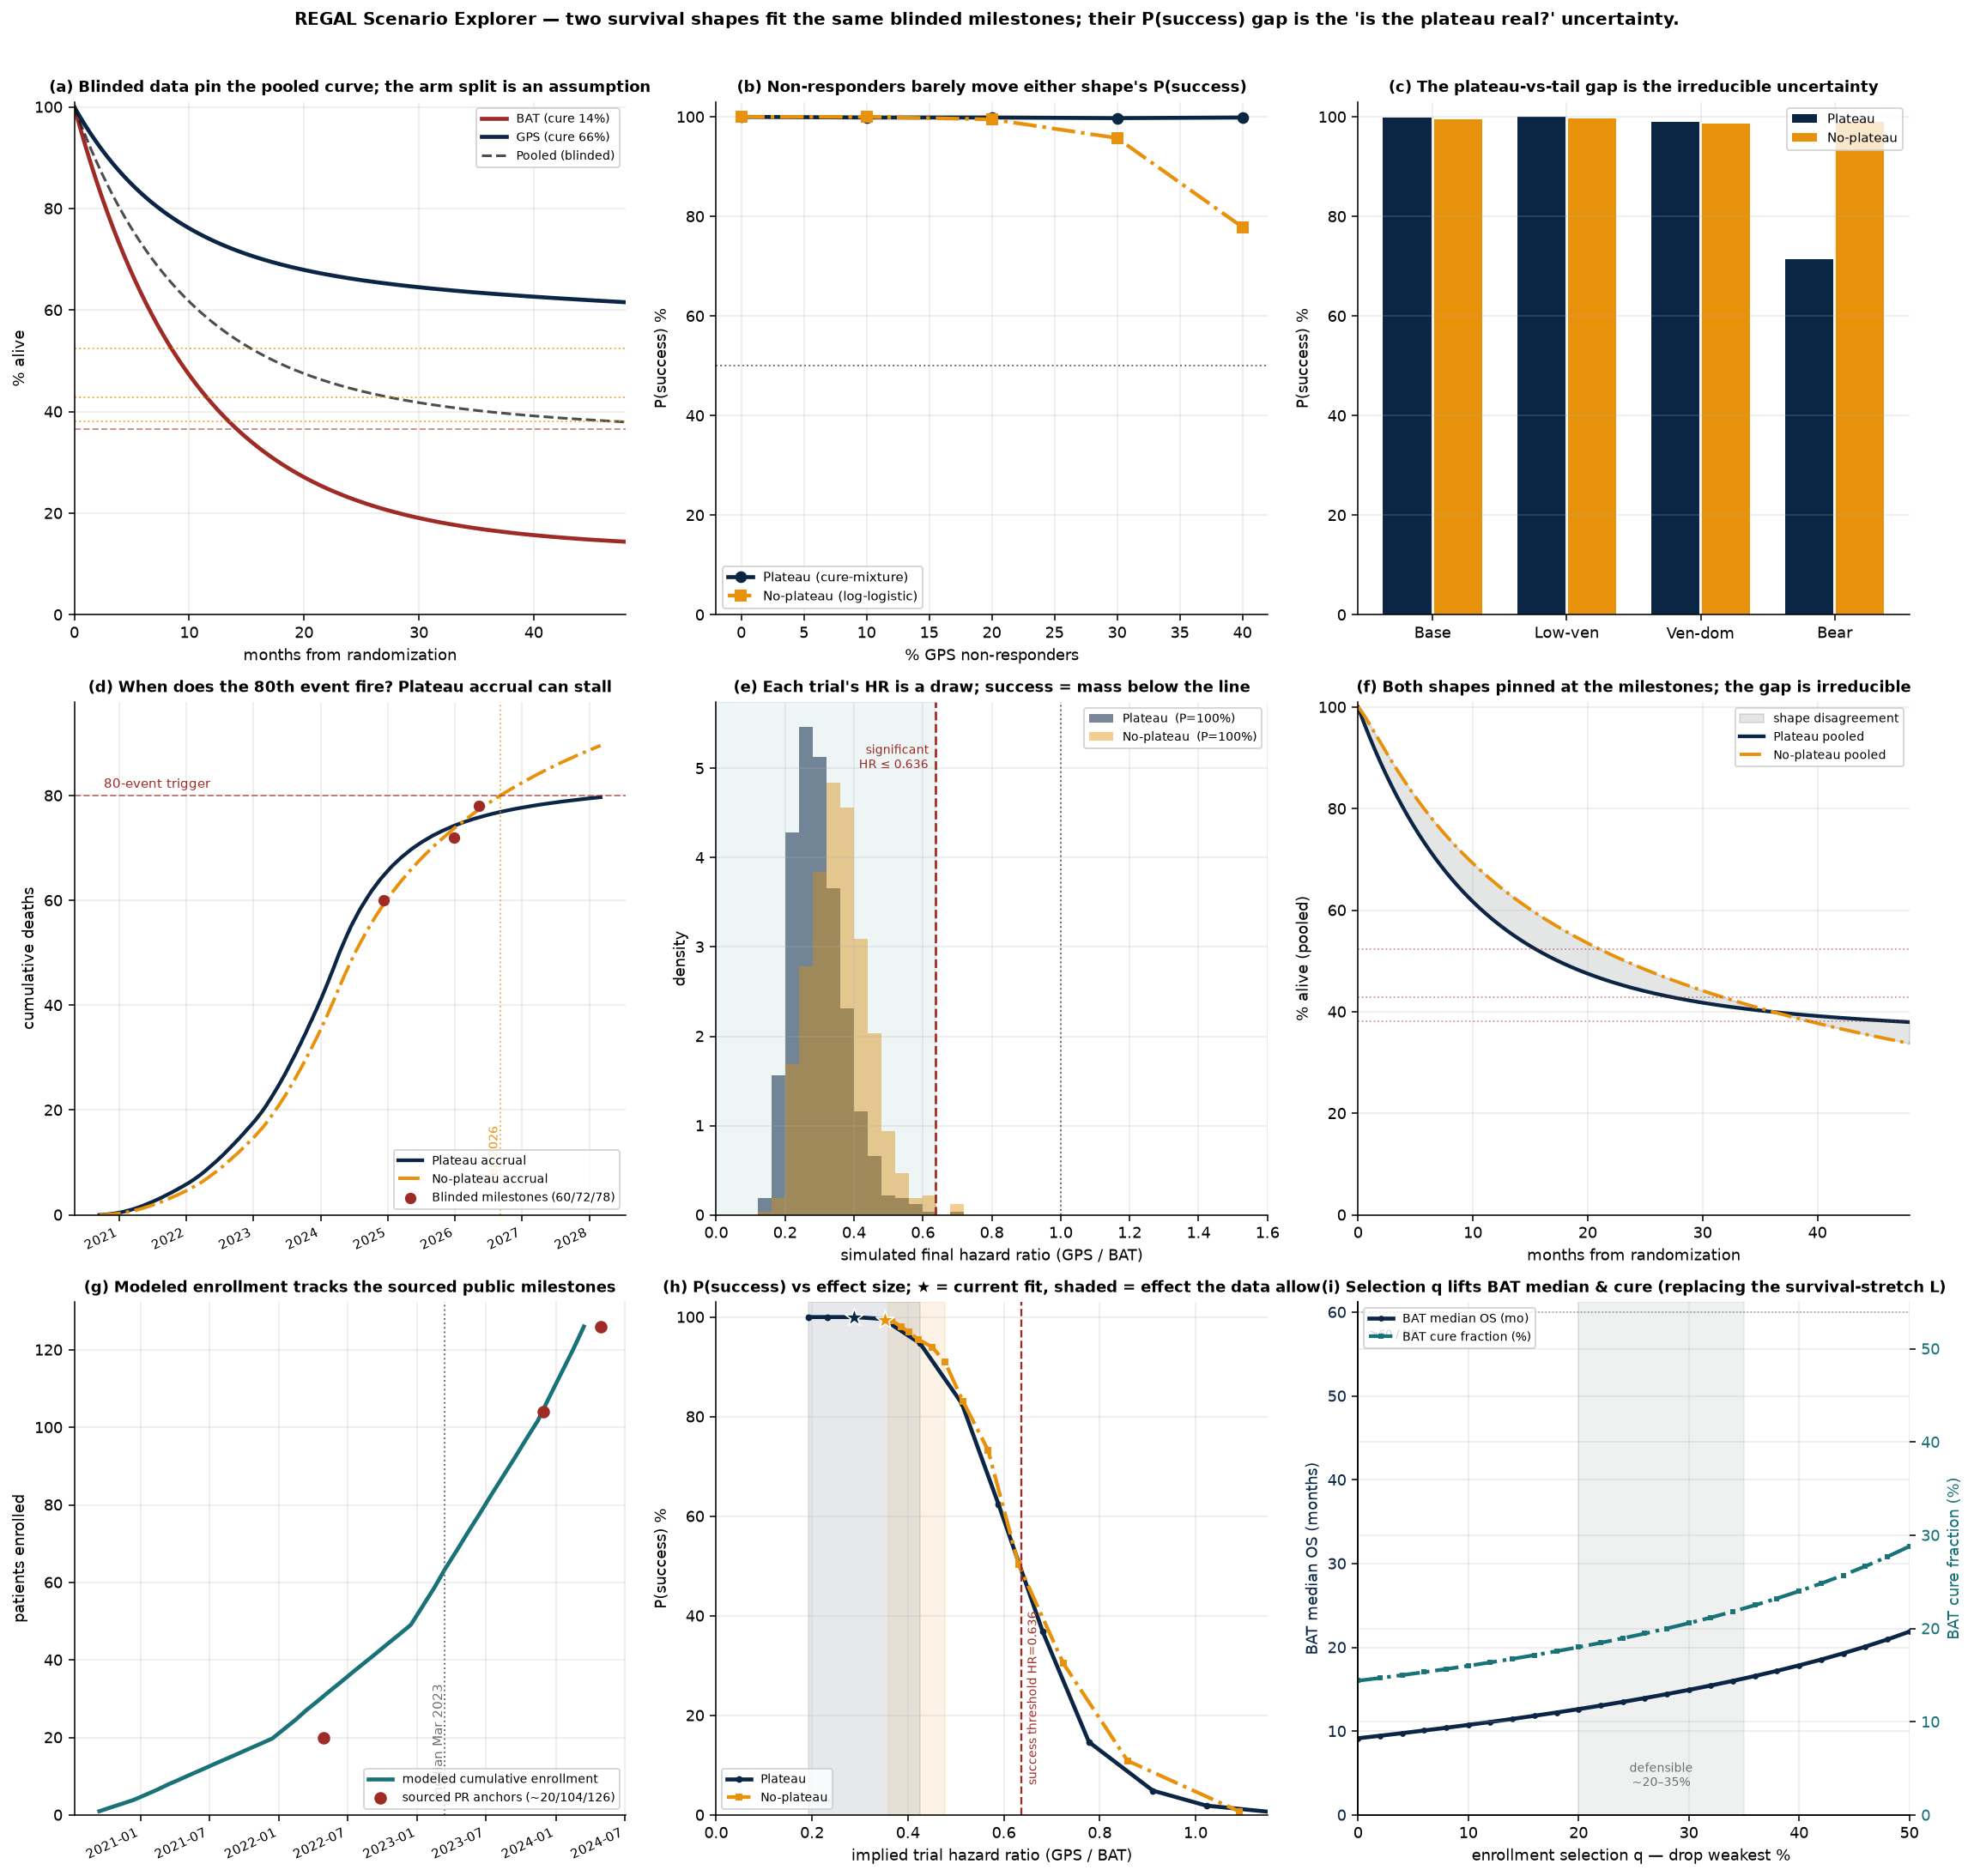
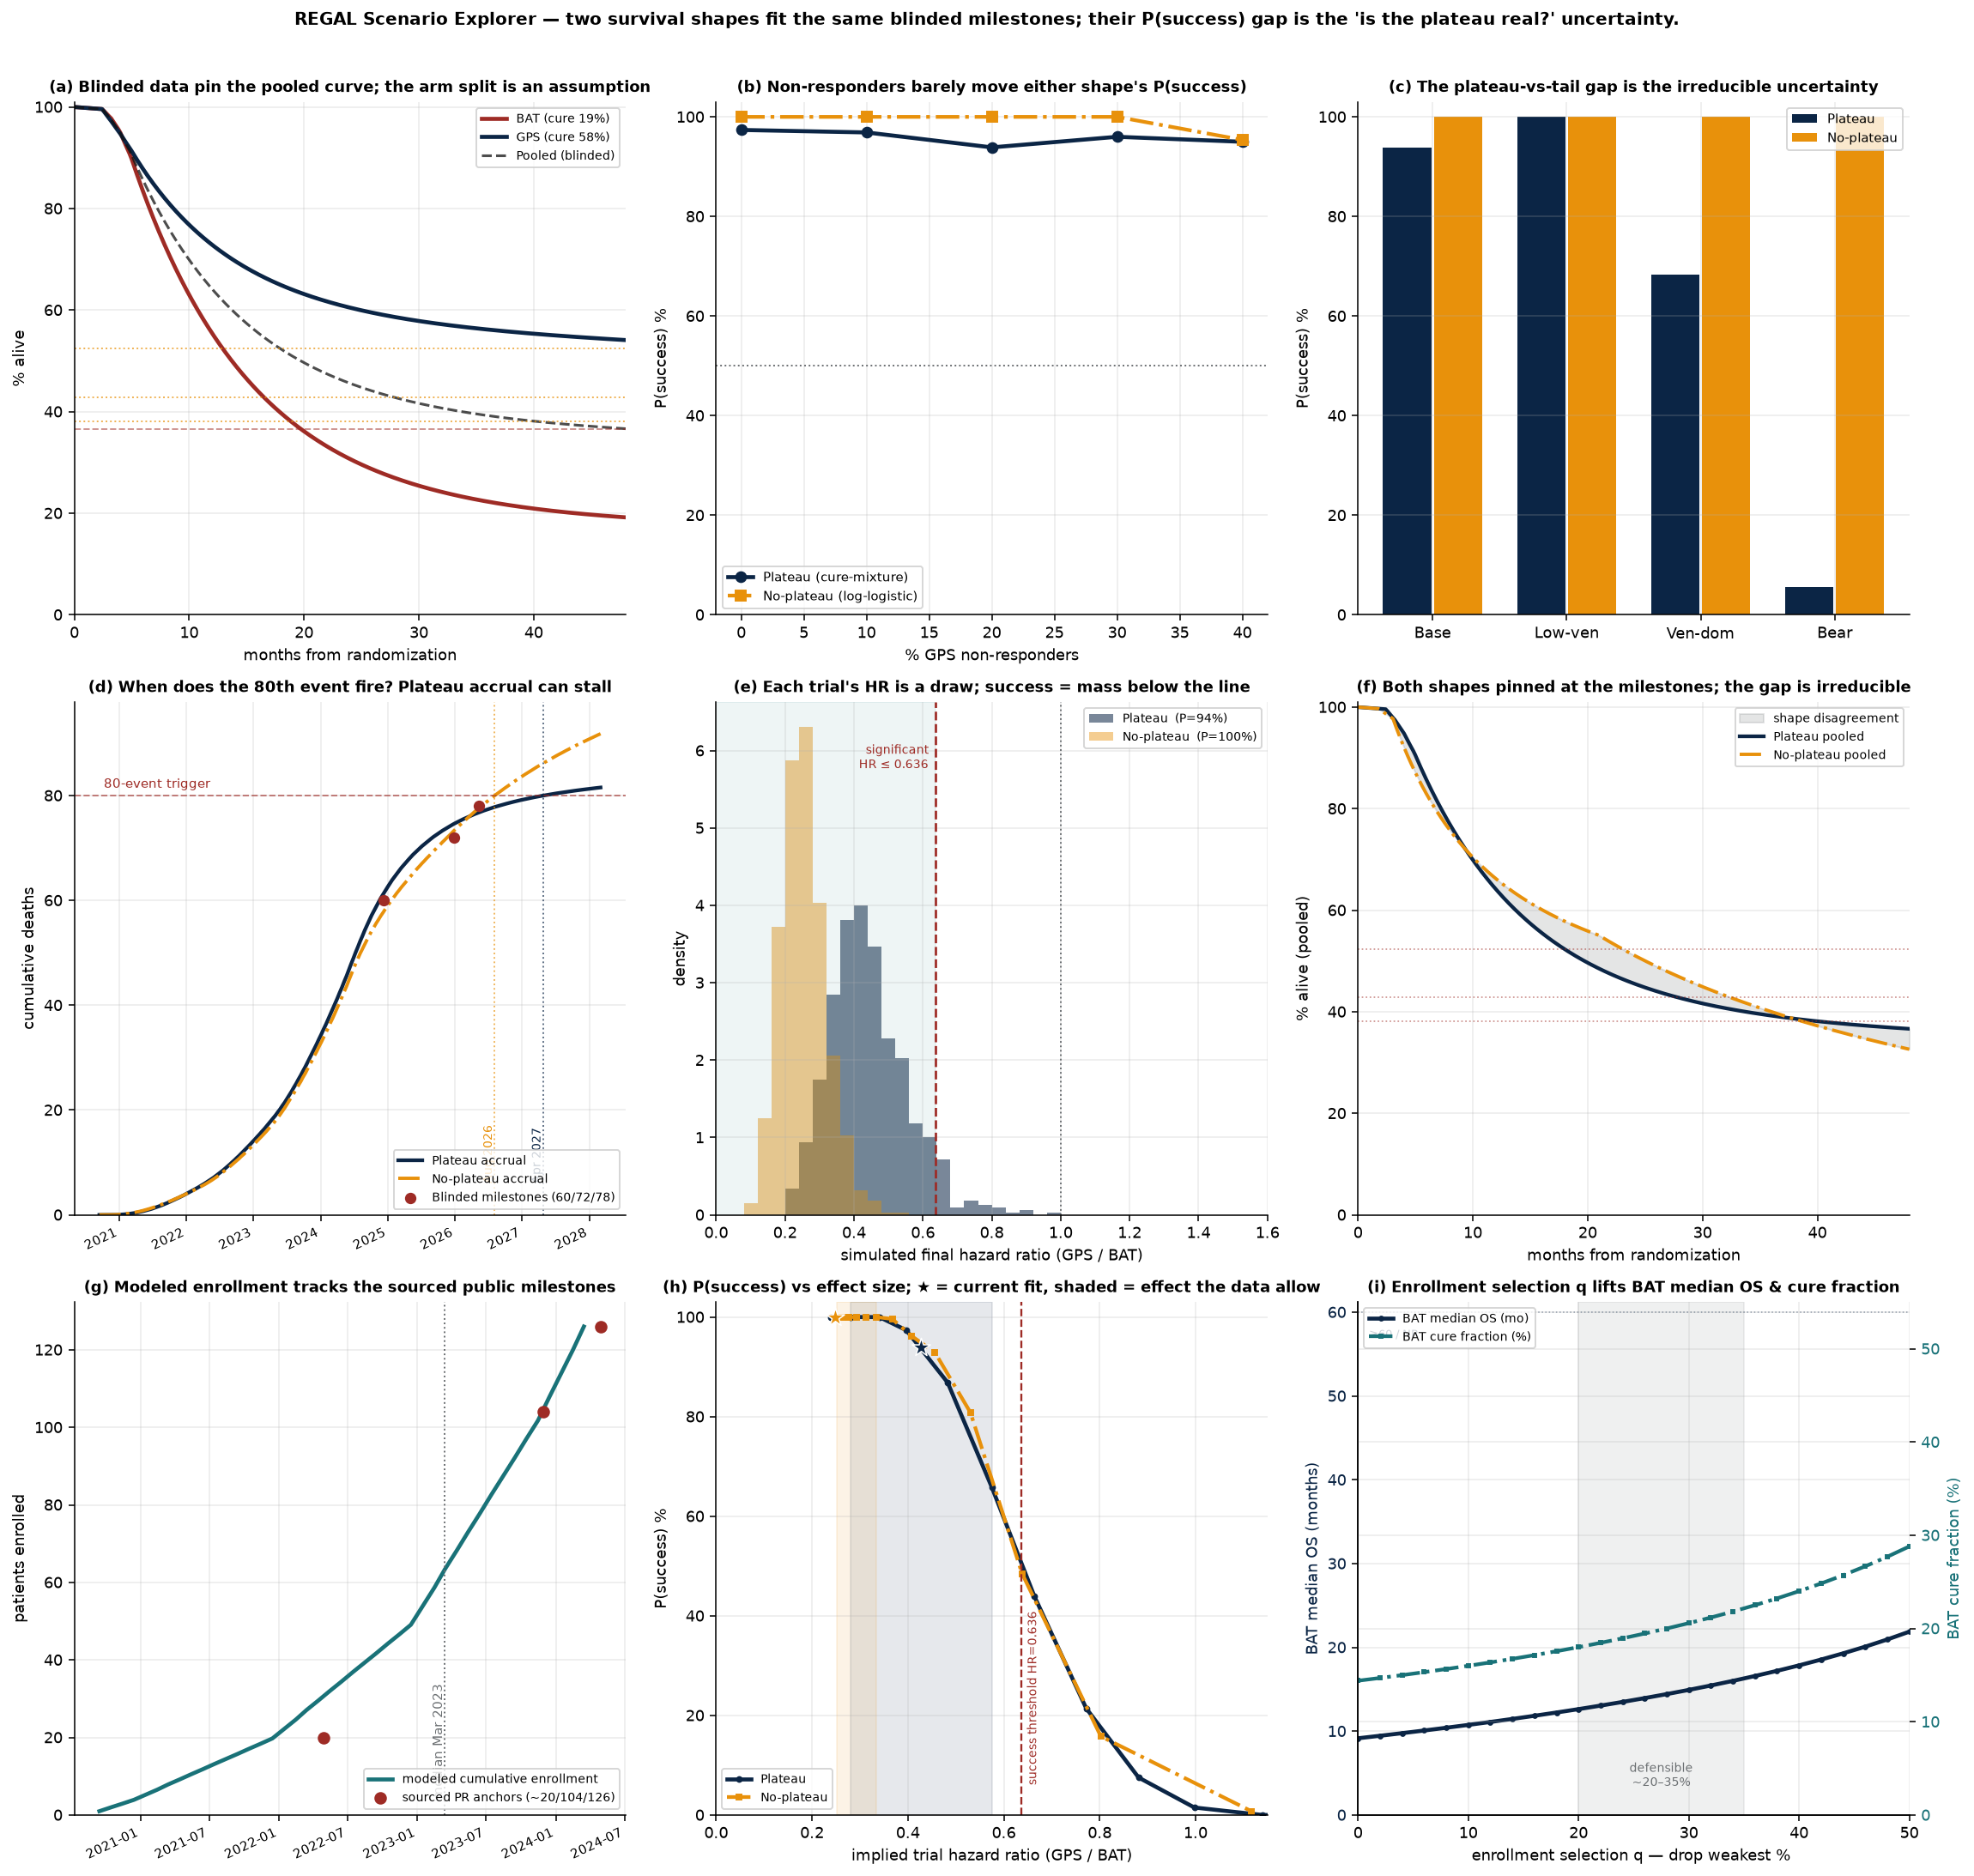
Default enrollment selection to 25%; drop the redundant scale parameter
Set the enrollment-selection default to q = 25% (mid-band) so the tool
lands on a calibrated state — base preset now fits 61/75/77 vs 60/72/78
with plateau P(success) ~94%.

Also remove the vestigial per-component time-scale argument from the
survival primitives (Sc, sampNC) and the model dict, since the arm is
now determined entirely by the component medians and enrollment
selection. Comments, UI notes, chart/panel titles, and the full
methodology doc are updated to match. Behaviour is unchanged (the scale
was already the identity); HTML and Python builds remain identical across
q, and the HTML renders in Chromium with no console errors.

Claude-Session: https://claude.ai/code/session_01FmZ3vemPZ6UechzaJiMTG4

diff --git a/regal_explorer.html b/regal_explorer.html
@@ -90,8 +90,8 @@
       <table id="compTable" style="margin-top:14px"><thead><tr><th>Component</th><th>Median (mo)</th><th>Cure %</th><th>Shape k</th></tr></thead><tbody></tbody></table>
       <div class="sub" style="margin-top:6px">Per-component survival inputs. Non-responders use the <b>Observation</b> row. Shape k: &lt;1 heavy tail (more long-term survivors), 1 = exponential, &gt;1 accelerating. Applies to cure-mixture mode.</div>
       <div class="row" style="margin-top:14px">
-        <label>Enrollment selection — drop weakest <span class="val" id="eselL">0%</span></label>
-        <input type="range" id="esel" min="0" max="50" step="1" value="0">
+        <label>Enrollment selection — drop weakest <span class="val" id="eselL">25%</span></label>
+        <input type="range" id="esel" min="0" max="50" step="1" value="25">
       </div>
       <div class="sub">The component medians above are for <b>all</b> CR2 transplant-ineligible patients, but the trial's eligibility bar
         enrols a healthier subset. This drops the weakest X% of every component (by survival) so only the healthiest (100−X)%
@@ -108,9 +108,9 @@
       </div>
       <div class="sub">Lower β = heavier tail (both arms survive long, smaller implied effect). Higher β ≈ a plateau.
         This controls the orange "no-plateau" number only.</div>
-      <div class="sub" style="margin-top:12px">Note (cure-mixture mode): there is no survival-stretch knob. BAT longevity comes only from the
-        component medians and the enrollment-selection slider — the milestone deceleration is explained by a healthier
-        enrolled cohort, not a free stretch. The fit's one free parameter is the GPS responder cure.</div>
+      <div class="sub" style="margin-top:12px">Note (cure-mixture mode): BAT longevity comes from the component medians and the
+        enrollment-selection slider — the milestone deceleration is explained by a healthier enrolled cohort. The fit's
+        one free parameter is the GPS responder cure.</div>
     </div>
 
     <div class="card">
@@ -226,7 +226,7 @@
         <span><i style="background:#9e2b25;opacity:.6"></i>success threshold (HR≤0.636)</span>
         <span><i style="background:#6b6f72;opacity:.18"></i>effect the data allow</span>
       </div>
-      <div class="subhead">Enrollment selection lifts the BAT arm <span class="note">BAT median OS and cure fraction as the drop-weakest slider q sweeps 0→50% — the longevity that used to be a free survival-stretch, now made explicit; dot = current q</span></div>
+      <div class="subhead">Enrollment selection lifts the BAT arm <span class="note">BAT median OS and cure fraction as the drop-weakest slider q sweeps 0→50%; dot = current q</span></div>
       <div id="chartSelect"></div>
       <div class="legend">
         <span><i style="background:#0b2545"></i>BAT median OS (mo)</span>
@@ -253,8 +253,8 @@ const mfb=(y,m,d)=>(Date.UTC(y,m-1,d)-BASE)/(DPM*86400000);
 const mulberry32=a=>()=>{a|=0;a=a+0x6D2B79F5|0;let t=Math.imul(a^a>>>15,1|a);t=t+Math.imul(t^t>>>7,61|t)^t;return((t^t>>>14)>>>0)/4294967296;};
 const Acoef=cure=>-Math.log((0.5-cure)/(1-cure));
 const lam=(med,cure,k)=>med/Math.pow(Acoef(cure),1/k);
-const Sc=(t,med,cure,k,L)=>cure+(1-cure)*Math.exp(-Math.pow(L*Math.max(t,0)/lam(med,cure,k),k));
-const sampNC=(med,cure,k,L,u)=>(lam(med,cure,k)/L)*Math.pow(-Math.log(u),1/k);
+const Sc=(t,med,cure,k)=>cure+(1-cure)*Math.exp(-Math.pow(Math.max(t,0)/lam(med,cure,k),k));
+const sampNC=(med,cure,k,u)=>lam(med,cure,k)*Math.pow(-Math.log(u),1/k);
 const Sll=(t,al,be)=>1/(1+Math.pow(Math.max(t,1e-9)/al,be));
 const sampLL=(al,be,u)=>al*Math.pow(1/u-1,1/be);
 // natural (non-disease) all-cause mortality as an independent competing risk.
@@ -300,23 +300,23 @@ const median=(S)=>{ if(S(900)>=0.5) return Infinity; let lo=.01,hi=900; for(let 
 function buildCure(cfg){
   const {w,cm,coh,MT,MOBS,WT}=common(cfg); const {fnr}=cfg;
   const h=natH(cfg.ndr||0), hd=natH(cfg.drop||0);
-  const F=Math.min(Math.max(cfg.esel||0,0),0.5);                  // enrollment selection: drop weakest fraction F
-  const Ssel=(t,c)=>Math.min(1,Sc(t,c.med,c.cure,c.k,1)/(1-F));   // survival of the healthiest (1-F) of a component (no survival stretch)
+  const F=Math.min(Math.max(cfg.esel||0,0),0.5);                // enrollment selection: drop weakest fraction F
+  const Ssel=(t,c)=>Math.min(1,Sc(t,c.med,c.cure,c.k)/(1-F));   // survival of the healthiest (1-F) of a component
   const pibat=cm.reduce((a,c,i)=>a+w[i]*c.cure/(1-F),0), obs=cm[0];
   const Sbat=t=>cm.reduce((a,c,i)=>a+w[i]*Ssel(t,c),0);
   const Snc=t=>(Sbat(t)-pibat)/(1-pibat);
   const Spool=(t,pr)=>0.5*Sbat(t)+0.5*((1-fnr)*(pr+(1-pr)*Snc(t))+fnr*Ssel(t,obs));
   // observed deaths are all-cause (disease × background mortality) and net of loss-to-follow-up.
   const ed=(T,pr)=>{const Sf=t=>Spool(t,pr)*Snat(t,h);return coh.reduce((a,c)=>a+(c[0]<=T?c[1]*obsFrac(Sf,T-c[0],hd):0),0);};
-  // Only the GPS responder cure (presp) is free: BAT longevity comes from the component medians and
-  // enrollment selection, not from a survival-stretch knob (L is gone; the scale is fixed at 1).
+  // The GPS responder cure (presp) is the only free parameter; the BAT arm is fixed by the
+  // component medians and enrollment selection.
   let best=0.6,bs=1e18;
   for(let ki=0;ki<=90;ki++){const pr=ki/90;let e=0;for(let j=0;j<3;j++){const d=ed(MT[j],pr)-MOBS[j];e+=WT[j]*d*d;}if(e<bs){bs=e;best=pr;}}
   for(let it=0;it<3;it++){const st=.05/(it+1);for(let dp=-4;dp<=4;dp++){const pr=Math.min(.985,Math.max(0,best+dp*st));let e=0;for(let j=0;j<3;j++){const d=ed(MT[j],pr)-MOBS[j];e+=WT[j]*d*d;}if(e<bs){bs=e;best=pr;}}}
   const presp=best, pgps=(1-fnr)*presp+fnr*obs.cure/(1-F);
   // returned curves are all-cause (disease × background mortality).
   const Sb=t=>Sbat(t)*Snat(t,h), Sg=t=>((1-fnr)*(presp+(1-presp)*Snc(t))+fnr*Ssel(t,obs))*Snat(t,h), Sp=t=>Spool(t,presp)*Snat(t,h);
-  return {kind:"cure",cfg,w,cm,coh,MT,MOBS,presp,L:1,h,pibat,pgps,obs,edRaw:ed,
+  return {kind:"cure",cfg,w,cm,coh,MT,MOBS,presp,h,pibat,pgps,obs,edRaw:ed,
     Sbat:Sb,Sgps:Sg,Spool:Sp,batMed:median(Sb),gpsMed:median(Sg),poolMed:median(Sp),
     poolCure:0.5*(pibat+pgps),ed:t=>ed(t,presp)};
 }
@@ -366,10 +366,10 @@ function mc(M,nsim){
     for(let i=0;i<N;i++){
       let u=rnd(),k=0;while(k<cohc.length-1&&u>cohc[k])k++; en[i]=M.coh[k][0]; let sv;
       if(M.kind==="cure"){
-        const presp=M.presp,L=M.L,obs=M.obs;
-        if(arm[i]===1){ if(rnd()<fnr) sv=rnd()<obs.cure/(1-F)?1e9:sampNC(obs.med,obs.cure,obs.k,L,rnd()*snq[0]);
-          else { if(rnd()<presp) sv=1e9; else {let v=rnd(),c=0;while(c<ncc.length-1&&v>ncc[c])c++;sv=sampNC(cm[c].med,cm[c].cure,cm[c].k,L,rnd()*snq[c]);} } }
-        else { let v=rnd(),c=0;while(c<cwc.length-1&&v>cwc[c])c++; sv=rnd()<cm[c].cure/(1-F)?1e9:sampNC(cm[c].med,cm[c].cure,cm[c].k,L,rnd()*snq[c]); }
+        const presp=M.presp,obs=M.obs;
+        if(arm[i]===1){ if(rnd()<fnr) sv=rnd()<obs.cure/(1-F)?1e9:sampNC(obs.med,obs.cure,obs.k,rnd()*snq[0]);
+          else { if(rnd()<presp) sv=1e9; else {let v=rnd(),c=0;while(c<ncc.length-1&&v>ncc[c])c++;sv=sampNC(cm[c].med,cm[c].cure,cm[c].k,rnd()*snq[c]);} } }
+        else { let v=rnd(),c=0;while(c<cwc.length-1&&v>cwc[c])c++; sv=rnd()<cm[c].cure/(1-F)?1e9:sampNC(cm[c].med,cm[c].cure,cm[c].k,rnd()*snq[c]); }
       } else {
         if(arm[i]===1) sv = rnd()<fnr ? sampLL(M.mObs,M.beta,(1-F)*rnd()) : sampLL(M.r*M.mB,M.beta,(1-F)*rnd());
         else sv = sampLL(M.mB,M.beta,(1-F)*rnd());
@@ -522,7 +522,7 @@ function chartSelect(cfg){
   const W=600,H=250,pl=44,pr=48,pt=14,pb=34,iw=W-pl-pr,ih=H-pt-pb,QMAX=0.5,MCAP=60;
   const {w,cm}=common(cfg), h=natH(cfg.ndr||0);
   const batCure=q=>{let p=0;for(let j=0;j<cm.length;j++)p+=w[j]*cm[j].cure/(1-q);return 100*p;};
-  const batMed=q=>{const S=t=>{let s=0;for(let j=0;j<cm.length;j++)s+=w[j]*Math.min(1,Sc(t,cm[j].med,cm[j].cure,cm[j].k,1)/(1-q));return s*Snat(t,h);};const m=median(S);return isFinite(m)?Math.min(m,MCAP):MCAP;};
+  const batMed=q=>{const S=t=>{let s=0;for(let j=0;j<cm.length;j++)s+=w[j]*Math.min(1,Sc(t,cm[j].med,cm[j].cure,cm[j].k)/(1-q));return s*Snat(t,h);};const m=median(S);return isFinite(m)?Math.min(m,MCAP):MCAP;};
   const qs=[],medV=[],curV=[]; for(let i=0;i<=25;i++){const q=QMAX*i/25;qs.push(q);medV.push(batMed(q));curV.push(batCure(q));}
   const curMax=Math.max(55,1.15*Math.max(...curV));
   const X=q=>pl+q/QMAX*iw, YL=m=>pt+(1-m/MCAP)*ih, YR=c=>pt+(1-c/curMax)*ih;
@@ -601,8 +601,8 @@ function render(){
   if(mode==="cure"){ const rch=Math.round(r.reach*100);
     note += rch<70 ? `<span class="warn">⚠ 80th event reached in only ${rch}% of sims — survival so high the trigger may stall.</span> ` : "";
     const q=Math.round((cfg.esel||0)*100);
-    note += `No survival-stretch knob: BAT longevity is the component medians plus <b>${q}%</b> enrollment selection. `
-      + (q===0 ? `At 0% selection the raw medians tend to over-produce early deaths, so a residual misfit here is the signal that some selection is needed.` : `Selection is carrying the milestone deceleration in place of a free stretch.`);
+    note += `BAT longevity is the component medians plus <b>${q}%</b> enrollment selection. `
+      + (q===0 ? `At 0% selection the raw medians tend to over-produce early deaths, so a residual misfit here is the signal that some selection is needed.` : `Selection is what explains the milestone deceleration.`);
   } else {
     note += `No plateau ⇒ the 80th event is always reached — the real trial's current stall at 78/80 mildly favors the plateau model. A heavier tail (lower β) fits the milestones slightly worse but cannot be excluded.`;
   }
@@ -652,7 +652,7 @@ $("unweighted").addEventListener("change",schedule);
 ["N","FINAL","HRC","IA","futHR"].forEach(id=>$(id).addEventListener("input",()=>{updBl();schedule();}));
 document.querySelectorAll("#presets button").forEach(b=>b.addEventListener("click",()=>{const p=PRESETS[b.dataset.preset];p.w.forEach((v,i)=>{comp[i].w=v;const el=$("w"+i);if(el)el.value=v;});comp[3].cure=p.vc;$("vcure").value=p.vc;$("vcL").textContent=p.vc+"%";const el=$("cc3");if(el)el.value=p.vc;updWeights();schedule();}));
 document.querySelectorAll("#modeTog button").forEach(b=>b.addEventListener("click",()=>{mode=b.dataset.mode;document.querySelectorAll("#modeTog button").forEach(x=>x.classList.toggle("on",x===b));render();}));
-$("reset").addEventListener("click",()=>{comp=structuredClone(DEFAULT_COMP);ev=structuredClone(DEFAULT_EV);$("nr").value=20;$("nrL").textContent="20%";$("bl").value=0.5;$("ndr").value=2;$("ndrL").textContent="2.0%/yr";$("beta").value=1.2;$("bL").textContent="1.20";$("N").value=126;$("FINAL").value=80;$("HRC").value=0.636;$("IA").value=60;$("futHR").value=1.0;$("drop").value=0;$("dropL").textContent="0.0%/yr";$("esel").value=0;$("eselL").textContent="0%";$("unweighted").checked=false;$("vcure").value=22;$("vcL").textContent="22%";buildWeightSliders();buildCompTable();buildEvTable();updBl();render();});
+$("reset").addEventListener("click",()=>{comp=structuredClone(DEFAULT_COMP);ev=structuredClone(DEFAULT_EV);$("nr").value=20;$("nrL").textContent="20%";$("bl").value=0.5;$("ndr").value=2;$("ndrL").textContent="2.0%/yr";$("beta").value=1.2;$("bL").textContent="1.20";$("N").value=126;$("FINAL").value=80;$("HRC").value=0.636;$("IA").value=60;$("futHR").value=1.0;$("drop").value=0;$("dropL").textContent="0.0%/yr";$("esel").value=25;$("eselL").textContent="25%";$("unweighted").checked=false;$("vcure").value=22;$("vcL").textContent="22%";buildWeightSliders();buildCompTable();buildEvTable();updBl();render();});
 
 let timer=null; function schedule(){if(timer)clearTimeout(timer);timer=setTimeout(render,130);}
 buildWeightSliders(); buildCompTable(); buildEvTable(); updBl(); render();

diff --git a/regal_explorer.py b/regal_explorer.py
@@ -30,10 +30,10 @@ def _to_date(t):
 
 Acoef = lambda cure: -np.log((0.5 - cure) / (1 - cure))          # S(med)=0.5 coefficient
 lam   = lambda med, cure, k: med / Acoef(cure) ** (1.0 / k)       # Weibull scale
-def Sc(t, med, cure, k, L):                                       # cure-mixture Weibull, time x L
-    return cure + (1 - cure) * np.exp(-(L * np.clip(t, 0, None) / lam(med, cure, k)) ** k)
-def sampNC(med, cure, k, L, u):                                  # sample a NON-cured Weibull time
-    return (lam(med, cure, k) / L) * (-np.log(u)) ** (1.0 / k)
+def Sc(t, med, cure, k):                                          # cure-mixture Weibull survival
+    return cure + (1 - cure) * np.exp(-(np.clip(t, 0, None) / lam(med, cure, k)) ** k)
+def sampNC(med, cure, k, u):                                     # sample a NON-cured Weibull time
+    return lam(med, cure, k) * (-np.log(u)) ** (1.0 / k)
 Sll   = lambda t, al, be: 1.0 / (1.0 + (np.clip(t, 1e-9, None) / al) ** be)   # log-logistic survival
 sampLL = lambda al, be, u: al * (1.0 / u - 1.0) ** (1.0 / be)                 # log-logistic sample
 # natural (non-disease) all-cause mortality as an independent competing risk.
@@ -73,7 +73,7 @@ PRESETS = {
 
 def default_cfg(**over):
     cfg = dict(N=126, FINAL=80, HRC=0.636, fnr=0.20, bl=0.50, beta=1.20,
-               ndr=0.02, IA=60, futHR=1.0, drop=0.0, esel=0.0, unweighted=False,
+               ndr=0.02, IA=60, futHR=1.0, drop=0.0, esel=0.25, unweighted=False,
                comp=[dict(c) for c in DEFAULT_COMP],
                ev=[dict(e) for e in DEFAULT_EV])
     cfg.update(over)
@@ -144,8 +144,8 @@ def build_cure(cfg):
     fnr = cfg["fnr"]
     h = natH(cfg.get("ndr", 0.0)); hd = natH(cfg.get("drop", 0.0))
     F = min(max(cfg.get("esel", 0.0), 0.0), 0.5)   # enrollment selection: drop weakest fraction F
-    def Ssel(t, c):                                 # survival of the healthiest (1-F) of a component (no survival stretch)
-        return np.minimum(1.0, Sc(t, c["med"], c["cure"], c["k"], 1.0) / (1 - F))
+    def Ssel(t, c):                                 # survival of the healthiest (1-F) of a component
+        return np.minimum(1.0, Sc(t, c["med"], c["cure"], c["k"]) / (1 - F))
     pibat = sum(w[i] * cm[i]["cure"] / (1 - F) for i in range(len(cm)))
     obs = cm[0]
     def Sbat(t): return sum(w[i] * Ssel(t, cm[i]) for i in range(len(cm)))
@@ -157,8 +157,8 @@ def build_cure(cfg):
         Sf = lambda t: Spool(t, pr) * Snat(t, h)
         return sum(c[1] * obs_frac(Sf, T - c[0], hd) for c in coh if c[0] <= T)
 
-    # Only the GPS responder cure (presp) is free: BAT longevity comes from the component medians
-    # and enrollment selection, not from a survival-stretch knob (L is gone; the scale is fixed at 1).
+    # The GPS responder cure (presp) is the only free parameter; the BAT arm is fixed by the
+    # component medians and enrollment selection.
     best, bs = 0.6, 1e18
     for ki in range(91):
         pr = ki / 90.0
@@ -177,7 +177,7 @@ def build_cure(cfg):
     Sg = lambda t: ((1 - fnr) * (presp + (1 - presp) * Snc(t)) + fnr * Ssel(t, obs)) * Snat(t, h)
     Sp = lambda t: Spool(t, presp) * Snat(t, h)
     return dict(kind="cure", cfg=cfg, w=w, cm=cm, coh=coh, MT=MT, MOBS=MOBS, WT=WT,
-                presp=presp, L=1.0, h=h, pibat=pibat, pgps=pgps, obs=obs,
+                presp=presp, h=h, pibat=pibat, pgps=pgps, obs=obs,
                 Sbat=Sb, Sgps=Sg, Spool=Sp, ed_raw=ed,
                 batMed=median(Sb), gpsMed=median(Sg), poolMed=median(Sp),
                 poolCure=0.5 * (pibat + pgps), ed=lambda t: ed(t, presp))
@@ -271,7 +271,7 @@ def mc(M, nsim=1500, seed=987654321):
             idx = np.where(pick == j)[0]
             if idx.size:
                 cured = rng.random(idx.size) < c["cure"] / (1 - F)
-                s = sampNC(c["med"], c["cure"], c["k"], M["L"], rng.random(idx.size) * snq[j])
+                s = sampNC(c["med"], c["cure"], c["k"], rng.random(idx.size) * snq[j])
                 out[idx] = np.where(cured, 1e9, s)
         return out
 
@@ -282,7 +282,7 @@ def mc(M, nsim=1500, seed=987654321):
         obs = M["obs"]
         if nr.size:
             cured = rng.random(nr.size) < obs["cure"] / (1 - F)
-            s = sampNC(obs["med"], obs["cure"], obs["k"], M["L"], rng.random(nr.size) * snq[0])
+            s = sampNC(obs["med"], obs["cure"], obs["k"], rng.random(nr.size) * snq[0])
             out[nr] = np.where(cured, 1e9, s)
         if rs.size:
             cured = rng.random(rs.size) < M["presp"]
@@ -290,7 +290,7 @@ def mc(M, nsim=1500, seed=987654321):
             s = np.empty(rs.size)
             for j, c in enumerate(cm):
                 jj = np.where(pick == j)[0]
-                if jj.size: s[jj] = sampNC(c["med"], c["cure"], c["k"], M["L"], rng.random(jj.size) * snq[j])
+                if jj.size: s[jj] = sampNC(c["med"], c["cure"], c["k"], rng.random(jj.size) * snq[j])
             out[rs] = np.where(cured, 1e9, s)
         return out
 
@@ -519,14 +519,14 @@ def figure(path, nsim=1500):
     hx.set_title("(h) P(success) vs effect size; ★ = current fit, shaded = effect the data allow",
                  fontweight="bold", fontsize=9); hx.legend(fontsize=7.2, loc="lower left")
 
-    # (i) how enrollment selection q lifts the BAT arm — median OS and cure fraction (the two
-    #     quantities that used to be smuggled into the free survival-stretch L, now made explicit).
+    # (i) how enrollment selection q lifts the BAT arm — median OS and cure fraction, the two
+    #     quantities the comparator assumption turns on, shown explicitly.
     ix = ax[2, 2]; w0, cm0, h0 = Mc["w"], Mc["cm"], Mc["h"]
     qs = np.linspace(0.0, 0.5, 26)
     bat_med, bat_cure = [], []
     for q in qs:
         pib = sum(w0[i] * cm0[i]["cure"] / (1 - q) for i in range(len(cm0)))
-        Sbq = lambda t, q=q: (sum(w0[i] * np.minimum(1.0, Sc(t, cm0[i]["med"], cm0[i]["cure"], cm0[i]["k"], 1.0) / (1 - q))
+        Sbq = lambda t, q=q: (sum(w0[i] * np.minimum(1.0, Sc(t, cm0[i]["med"], cm0[i]["cure"], cm0[i]["k"]) / (1 - q))
                                   for i in range(len(cm0)))) * Snat(t, h0)
         bat_cure.append(100 * pib); bat_med.append(median(Sbq))
     bat_med = np.array(bat_med); mcap = 60.0                       # clip a "not reached" median for display
@@ -542,7 +542,7 @@ def figure(path, nsim=1500):
     ix2.plot(100 * qs, bat_cure, color=TEAL, lw=2.2, ls="-.", marker="s", ms=2.5, label="BAT cure fraction (%)")
     ix2.set_ylabel("BAT cure fraction (%)", color=TEAL); ix2.tick_params(axis="y", labelcolor=TEAL)
     ix2.set_ylim(0, max(55.0, 1.15 * max(bat_cure)))
-    ix.set_title("(i) Selection q lifts BAT median & cure (replacing the survival-stretch L)",
+    ix.set_title("(i) Enrollment selection q lifts BAT median OS & cure fraction",
                  fontweight="bold", fontsize=9)
     h1, l1 = ix.get_legend_handles_labels(); h2, l2 = ix2.get_legend_handles_labels()
     ix.legend(h1 + h2, l1 + l2, fontsize=7.2, loc="upper left")
@@ -568,7 +568,7 @@ if __name__ == "__main__":
     ci_more, ci_few = fit_ci(base, build_cure)
     print(f"  GPS  : cure {100*Mc['pgps']:.0f}%  median {fmt_med(Mc['gpsMed'])}  (cure gap +{100*(Mc['pgps']-Mc['pibat']):.0f}pp)")
     print(f"         GPS median Poisson 68% CI [{fmt_med(ci_more)} .. {fmt_med(ci_few)}] (from 60/72/78 +/- sqrt(n))")
-    print(f"  calib: no survival stretch (L removed)  poolMed {fmt_med(Mc['poolMed'])}")
+    print(f"  pool : median {fmt_med(Mc['poolMed'])}")
     coh = Mc['coh']
     print(f"  enrol: median {month_label(med_enroll(coh))}  "
           f"cum {cum_enroll(coh,2022,4):.0f}/{cum_enroll(coh,2023,11):.0f}/{cum_enroll(coh,2024,4):.0f} "

diff --git a/REGAL_MODEL_DOCUMENTATION.md b/REGAL_MODEL_DOCUMENTATION.md
@@ -57,9 +57,8 @@ Both share one enrollment reconstruction, one set of survival primitives, and th
 threshold (Section 2.1). Within each, **two survival models are fit to the identical milestones**:
 
 - **`build_cure` / `buildCure` — plateau (cure-mixture).** A weighted mixture of per-component
-  Weibull cure-models; only the GPS responder plateau is fit to the events (the old early-hazard
-  stretch `L` is removed — BAT longevity comes from the component medians plus enrollment selection)
-  (Sections 4.3–4.4).
+  Weibull cure-models; only the GPS responder plateau is fit to the events — the BAT arm is fixed by
+  the component medians plus enrollment selection (Sections 4.3–4.4).
 - **`build_ll` / `buildLL` — no-plateau (log-logistic).** Both arms are log-logistic tails with a
   shared shape β; a single BAT-median scale `k` and a GPS/BAT median ratio `r` are fit to the same
   events (Section 4.7).
@@ -207,12 +206,10 @@ applied to the BAT components, the GPS responders (who draw from the BAT non-cur
 the GPS non-responders (who track Observation) alike. It is a property of the enrolled population, not
 a treatment effect.
 
-**Selection replaces the old survival-stretch knob.** Earlier versions carried a free "early-hazard
-multiplier" `L` that let the cure-mixture fit stretch BAT survival past the component medians to match
-the milestones. That knob has been **removed**: BAT longevity is now the component medians plus
-enrollment selection, nothing else (`L` is fixed at 1). The milestone deceleration that `L` used to
-absorb must now be explained mechanistically — by a healthier enrolled cohort — so `q` is the single
-BAT-side lever, and the fit's *only* remaining free parameter is the GPS responder cure `π_resp`.
+**`q` is the single BAT-side lever.** With the BAT arm otherwise fixed by the component medians, `q`
+is what determines how much of the milestone deceleration is attributed to a healthier enrolled cohort
+versus to the GPS effect; the plateau fit's *only* free parameter is the GPS responder cure `π_resp`.
+The default is **`q = 25%`** (mid-band; see below).
 
 **Effect (base preset).** As `q` rises 0 → 25 → 50% the BAT median OS lifts ~9 → 14 → 22 mo and the BAT
 cure fraction climbs ~14 → 19 → 29% (both plotted live in panel *(i)* / the "enrollment selection lifts
@@ -257,7 +254,6 @@ unidentified question. All are user-controlled in the explorer.
 | Control | Range / default | Type | Role |
 |---------|-----------------|------|------|
 | Tail heaviness **β** (log-logistic) | 0.6–2.0, default 1.20 | [A] | Shape of the no-plateau model. Lower β = heavier tail (both arms survive long, smaller implied effect); higher β ≈ a plateau. Controls the orange "no-plateau" number only. |
-| ~~Max BAT survival stretch~~ | *removed* | — | The free survival-stretch multiplier `L` has been retired. BAT longevity now comes only from the component medians and enrollment selection (Section 2.5.1); the plateau fit's sole free parameter is the GPS responder cure `π_resp`. See panel *(i)* for how selection `q` supplies the longevity `L` used to. |
 | Enrollment timing (median) | 0–1, default 0.50 (≈ median Mar 2023) | [A] | Slides the monthly accrual between an earlier (flat) and a later (back-loaded) profile; the **implied median enrollment date** and cumulative-at-anchor counts are displayed live (Section 2.3). The sourced anchors hold the median to ~Q1–Q2 2023. |
 | Per-component shape **k** | ≥0.3, default 1 | [A] | Weibull shape of each BAT component's non-cured tail (Section 2.5). |
 
@@ -364,22 +360,22 @@ controls expose the robustness of that fit:
 
 ## 3. Calibrated / derived outputs [D]
 
-Representative values at the **base preset** (f_nr = 20%, natural death 2%/yr, default β, 0% enrollment
-selection, 0% loss-to-follow-up, weighted fit); every number is a function of the user controls in Sections
+Representative values at the **base preset** (f_nr = 20%, natural death 2%/yr, default β, enrollment
+selection q = 25%, 0% loss-to-follow-up, weighted fit); every number is a function of the user controls in Sections
 2.5–2.12, so treat these as a centre point, not a
 fixed result. Monte-Carlo figures carry ±2–3 pp simulation noise at the default sim budget.
 
 | Quantity | Value (base preset) | Source |
 |----------|---------------------|--------|
 | Median enrollment date | ≈ Mar 2023 (cumulative ≈ 30 / 102 / 126 by Apr 2022 / Nov 2023 / Apr 2024) | `enroll` |
-| BAT cure / median | ~14% · ~9 mo at q=0 (no stretch); enrollment selection lifts both — ~19% · ~14 mo at q=25%, ~29% · ~22 mo at q=50% (Section 2.5.1) | `build_cure` |
-| GPS cure / median | ~66% · ~169 mo all-cause at q=0 (disease-only plateau is never reached); both fall as selection rises and `π_resp` re-fits down | `build_cure` |
-| GPS median Poisson 68% CI | ~34 – 291 mo at q=0 (from 60/72/78 ±√n) — wide: three counts barely pin the tail | `fit_ci` |
-| Pooled long-term-survivor fraction | ~0.36–0.40 (disease plateau; all-cause survival decays below it) | `build_cure` |
-| Pooled median OS | **~17 mo** at q=0 (above the ≥13.5 floor) | `build_cure` |
-| Implied HR at the 60-event interim | ~0.32 at q=0 (clears the 1.00 futility threshold); drifts toward 1 as selection rises | `mc` |
-| Patients alive at the 80th event | ~37 GPS / ~9 BAT at q=0 (before censoring) | `mc` |
-| **P(success) — plateau (cure-mixture)** | **~100% at q=0**, falling to ~94% (q=25%) → ~13% (q=50%) as selection carries the milestone deceleration (Section 2.5.1) | `build_cure` + `mc` |
+| BAT cure / median | ~19% · ~14 mo at the q=25% default; selection sweeps it ~14% · ~9 mo (q=0) → ~29% · ~22 mo (q=50%) (Section 2.5.1) | `build_cure` |
+| GPS cure / median | ~58% · ~90 mo all-cause (disease-only plateau is never reached); both fall as selection rises and `π_resp` re-fits down | `build_cure` |
+| GPS median Poisson 68% CI | ~21 – 234 mo (from 60/72/78 ±√n) — wide: three counts barely pin the tail | `fit_ci` |
+| Pooled long-term-survivor fraction | ~0.39 (disease plateau; all-cause survival decays below it) | `build_cure` |
+| Pooled median OS | **~20 mo** (above the ≥13.5 floor) | `build_cure` |
+| Implied HR at the 60-event interim | ~0.48 (clears the 1.00 futility threshold); drifts toward 1 as selection rises | `mc` |
+| Patients alive at the 80th event | ~33 GPS / ~13 BAT (before censoring) | `mc` |
+| **P(success) — plateau (cure-mixture)** | **~95% at the q=25% default**; selection sweeps it ~100% (q=0) → ~13% (q=50%) (Section 2.5.1) | `build_cure` + `mc` |
 | **P(success) — no-plateau (log-logistic, β=1.2)** | **~99–100%** (largely selection-insensitive) | `build_ll` + `mc` |
 | 80th event reached in MC | ~100% of sims (both shapes) at the 2% natural-death default; the plateau drops to ~82% only at 0% natural death | `mc` |
 
@@ -409,11 +405,10 @@ main output.
 
 The explorer carries **two** primitives, fit independently to the same milestones:
 
-- **Plateau (cure-mixture, Weibull):** `Sc(t) = π + (1−π)·exp(−(L·t / λ)^k)`, a cured/long-term-survivor
+- **Plateau (cure-mixture, Weibull):** `Sc(t) = π + (1−π)·exp(−(t / λ)^k)`, a cured/long-term-survivor
   fraction π plus a Weibull-decaying remainder. λ is set so the non-cured median equals the component
-  median (`λ = median / A(π)^{1/k}`, `A(π) = −ln[(0.5−π)/(1−π)]`); `k = 1` recovers the original pure
-  exponential; `L` is a time-scale that is now fixed at 1 (the free survival stretch was removed —
-  Sections 2.5.1, 4.3). Rationale: cancer-vaccine
+  median (`λ = median / A(π)^{1/k}`, `A(π) = −ln[(0.5−π)/(1−π)]`); `k = 1` recovers the pure
+  exponential. Rationale: cancer-vaccine
   effects classically manifest as a durable-remission (plateau) difference rather than a uniform hazard
   shift, and the steep post-interim event deceleration cannot be fit by any single smooth non-plateau
   curve.
@@ -442,14 +437,14 @@ up-weight the most recent (and most informative) milestone (a **toggle** switche
 `[1, 1, 1]` to check the choice is not load-bearing — at base it shifts the GPS median by ~1 mo), over
 a coarse grid followed by three local-refinement passes. Sampling uncertainty in the counts is
 propagated by refitting at each milestone ±√n, giving a ~68% Poisson interval on the derived medians
-(Section 2.12). For the plateau model there is now a **single** free parameter — the GPS responder
+(Section 2.12). For the plateau model there is a **single** free parameter — the GPS responder
 cure `π_resp` — fit over a 1-D grid plus local refinement. The BAT arm is fully determined by the
-component medians and the enrollment-selection fraction `q` (Section 2.5.1); the earlier free
-early-hazard multiplier `L` has been removed and its scale fixed at 1, so any longevity the milestones
-demand beyond the raw component medians must be supplied *explicitly* by `q` rather than absorbed by a
-hidden stretch. The enrollment shape is set by the back-loading slider (Section 2.8) rather than
-marginalized. (An earlier Bayesian formulation used a Poisson log-likelihood with a prior on π_BAT; the
-explorer replaces that with this transparent point-fit + composition/selection levers.)
+component medians and the enrollment-selection fraction `q` (Section 2.5.1): any longevity the
+milestones demand beyond the raw component medians is supplied *explicitly* by `q` — a healthier
+enrolled cohort — rather than by any hidden calibration. The enrollment shape is set by the
+back-loading slider (Section 2.8) rather than marginalized. (An earlier Bayesian formulation used a
+Poisson log-likelihood with a prior on π_BAT; the explorer replaces that with this transparent
+point-fit + composition/selection levers.)
 
 ### 4.4 Arm decomposition (the unidentified step)
 
@@ -519,7 +514,7 @@ the computed results match).
 | Function | Purpose |
 |----------|---------|
 | `Acoef` / `lam` | Weibull coefficient `A(π) = −ln[(0.5−π)/(1−π)]` and scale `λ = median / A^{1/k}`. |
-| `Sc(t, med, cure, k, L)` | Per-component cure-mixture Weibull survival (the plateau primitive, Section 4.1). `L` (time-scale) is retained in the signature but the model now always calls it with `L = 1` — the free survival stretch was removed (Section 2.5.1). |
+| `Sc(t, med, cure, k)` | Per-component cure-mixture Weibull survival (the plateau primitive, Section 4.1). |
 | `Sll(t, α, β)` | Log-logistic survival (the no-plateau primitive). |
 | `sampNC` / `sampLL` | Inverse-CDF samplers for non-cured Weibull and log-logistic times (Monte-Carlo draws). |
 | `enroll(bl, N)` | Monthly enrollment cohorts summing to `N`, interpolating flat↔back-loaded by `bl` (Section 2.3). |